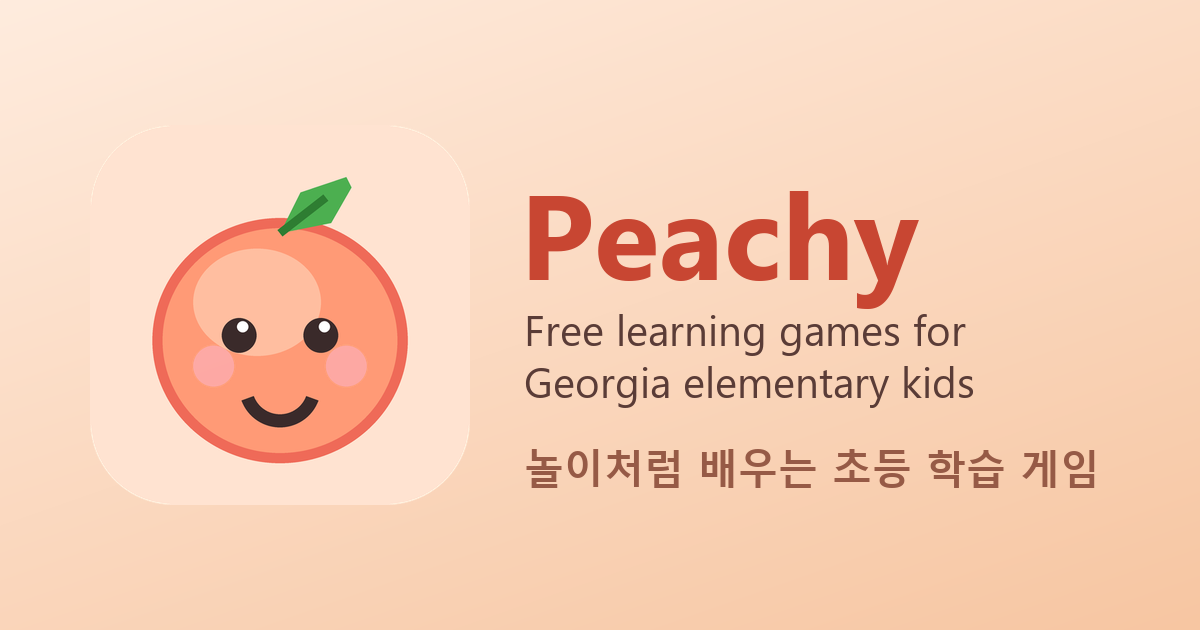
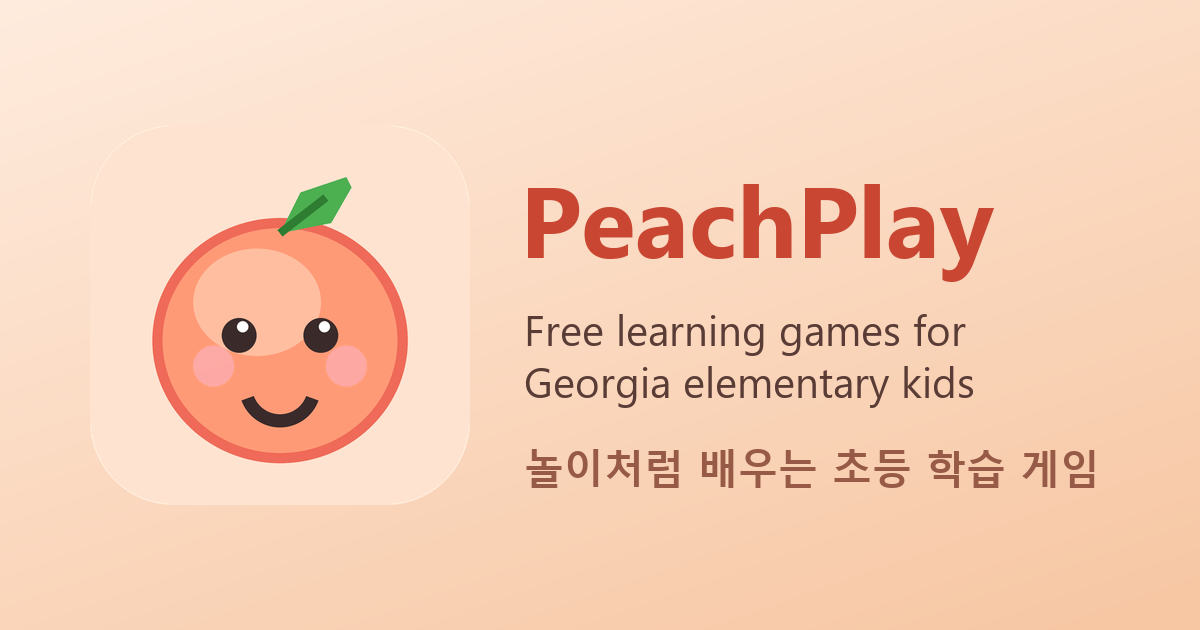
Update site

Changed region(s): [[0.4317, 0.2714, 0.8325, 0.5127]]

diff --git a/index.html b/index.html
@@ -4,11 +4,11 @@
 <meta charset="utf-8">
 <meta name="viewport" content="width=device-width, initial-scale=1">
 <script>/* opened as an installed app: go straight to the games */try{if((window.matchMedia&&matchMedia("(display-mode: standalone)").matches)||navigator.standalone)location.replace("play/")}catch(e){}</script>
-<title>Peachy – Free learning games for Georgia elementary kids</title>
+<title>PeachPlay – Free learning games for Georgia elementary kids</title>
 <meta name="description" content="Free, ad-free learning games for Georgia elementary kids: math, reading, writing, science, social studies and thinking games. Kindergarten and 1st grade now, more grades coming. English and Korean. No sign-up.">
 <meta name="theme-color" content="#ff9a76">
 <meta property="og:type" content="website">
-<meta property="og:title" content="Peachy – Free learning games for Georgia elementary kids">
+<meta property="og:title" content="PeachPlay – Free learning games for Georgia elementary kids">
 <meta property="og:description" content="120+ short games for kindergarten and 1st grade: math, reading, writing, science, social studies. English and Korean. Free, no ads, no sign-up.">
 <meta property="og:image" content="https://altair-research.github.io/peachy-k/og.png">
 <meta property="og:url" content="https://altair-research.github.io/peachy-k/">
@@ -78,7 +78,7 @@ footer{padding:30px 0 50px;text-align:center;color:var(--mute);font-size:14px}
 </head>
 <body>
 <header class="top"><div class="wrap">
-  <a class="brand" href="./"><img src="icon-192.png" alt="">Peachy</a>
+  <a class="brand" href="./"><img src="icon-192.png" alt="">PeachPlay</a>
   <button class="lang" id="lang" aria-label="Language">한국어</button>
 </div></header>
 
@@ -89,7 +89,7 @@ footer{padding:30px 0 50px;text-align:center;color:var(--mute);font-size:14px}
     <circle cx="19" cy="40" r="4.2" fill="#ff7f8a" opacity=".55"/><circle cx="45" cy="40" r="4.2" fill="#ff7f8a" opacity=".55"/><circle cx="24" cy="34" r="3.4" fill="#3a2a2a"/><circle cx="40" cy="34" r="3.4" fill="#3a2a2a"/><circle cx="25.2" cy="32.8" r="1.1" fill="#fff"/><circle cx="41.2" cy="32.8" r="1.1" fill="#fff"/><path d="M24 43q8 9 16 0" stroke="#3a2a2a" stroke-width="2.6" fill="none" stroke-linecap="round"/></svg>
   <div>
     <h1><span class="en">Learning games that feel like play.</span><span class="ko">놀이처럼 배우는 학습 게임</span></h1>
-    <p class="lead"><span class="en">Peachy is a free, ad-free game app for elementary kids: math, reading, writing, science, social studies and thinking games. Kindergarten and 1st grade are ready, and more grades are on the way. English and Korean, built around Georgia and Gwinnett learning standards.</span><span class="ko">Peachy는 초등학생을 위한 무료, 광고 없는 학습 게임이에요. 수학, 읽기, 쓰기, 과학, 사회, 두뇌 게임을 영어와 한국어로 즐길 수 있어요. 유치원(K)과 1학년이 준비되어 있고 더 높은 학년도 준비 중이에요. 조지아·Gwinnett 학습 기준을 바탕으로 만들었어요.</span></p>
+    <p class="lead"><span class="en">PeachPlay is a free, ad-free game app for elementary kids: math, reading, writing, science, social studies and thinking games. Kindergarten and 1st grade are ready, and more grades are on the way. English and Korean, built around Georgia and Gwinnett learning standards.</span><span class="ko">PeachPlay는 초등학생을 위한 무료, 광고 없는 학습 게임이에요. 수학, 읽기, 쓰기, 과학, 사회, 두뇌 게임을 영어와 한국어로 즐길 수 있어요. 유치원(K)과 1학년이 준비되어 있고 더 높은 학년도 준비 중이에요. 조지아·Gwinnett 학습 기준을 바탕으로 만들었어요.</span></p>
     <a class="cta" href="play/">▶ <span class="en">Play now</span><span class="ko">지금 시작하기</span></a>
     <a class="cta2" href="#install"><span class="en">Add it to your home screen</span><span class="ko">홈 화면에 추가하는 방법</span></a>
     <div class="badges"><span><span class="en">Free</span><span class="ko">무료</span></span><span><span class="en">No ads</span><span class="ko">광고 없음</span></span><span><span class="en">No sign-up</span><span class="ko">가입 없음</span></span><span><span class="en">Works offline</span><span class="ko">오프라인 가능</span></span><span>English · 한국어</span></div>
@@ -146,18 +146,18 @@ footer{padding:30px 0 50px;text-align:center;color:var(--mute);font-size:14px}
 </div></section>
 
 <section><div class="wrap">
-  <div style="text-align:center"><a class="cta" href="play/">▶ <span class="en">Play Peachy</span><span class="ko">Peachy 시작하기</span></a></div>
-  <p class="note" style="margin-top:28px"><span class="en">Peachy is made independently by Altair Research Lab. It is not affiliated with, endorsed by, or sponsored by Gwinnett County Public Schools, the Georgia Department of Education, or any publisher. It follows publicly available learning standards, and every question is original. Peachy is for practice and fun. It is not a test, a diagnosis, or an admissions tool.</span><span class="ko">Peachy는 Altair Research Lab이 독립적으로 만들었으며 Gwinnett County Public Schools, 조지아 교육부 또는 어떤 출판사와도 관련이 없고 후원이나 승인을 받지 않았어요. 공개된 학습 기준을 참고했고 모든 문제는 직접 만든 문제예요. 연습과 놀이를 위한 앱이며 시험, 진단, 입학 선발 도구가 아니에요.</span></p>
+  <div style="text-align:center"><a class="cta" href="play/">▶ <span class="en">Play PeachPlay</span><span class="ko">PeachPlay 시작하기</span></a></div>
+  <p class="note" style="margin-top:28px"><span class="en">PeachPlay is made independently by Altair Research Lab. It is not affiliated with, endorsed by, or sponsored by Gwinnett County Public Schools, the Georgia Department of Education, or any publisher. It follows publicly available learning standards, and every question is original. PeachPlay is for practice and fun. It is not a test, a diagnosis, or an admissions tool.</span><span class="ko">PeachPlay는 Altair Research Lab이 독립적으로 만들었으며 Gwinnett County Public Schools, 조지아 교육부 또는 어떤 출판사와도 관련이 없고 후원이나 승인을 받지 않았어요. 공개된 학습 기준을 참고했고 모든 문제는 직접 만든 문제예요. 연습과 놀이를 위한 앱이며 시험, 진단, 입학 선발 도구가 아니에요.</span></p>
 </div></section>
 </main>
 
-<footer><div class="wrap">© 2026 Altair Research Lab · Peachy · <a href="privacy.html"><span class="en">Privacy</span><span class="ko">개인정보</span></a> · <a href="terms.html"><span class="en">Terms</span><span class="ko">약관</span></a></div></footer>
+<footer><div class="wrap">© 2026 Altair Research Lab · PeachPlay · <a href="privacy.html"><span class="en">Privacy</span><span class="ko">개인정보</span></a> · <a href="terms.html"><span class="en">Terms</span><span class="ko">약관</span></a></div></footer>
 
 <script>
 (function(){
   var KEY='peachy-landing-lang',root=document.documentElement,btn=document.getElementById('lang'),lang='en';
   try{var s=localStorage.getItem(KEY);if(s)lang=s;else if((navigator.language||'').toLowerCase().indexOf('ko')===0)lang='ko'}catch(e){}
-  function apply(){root.lang=lang;btn.textContent=lang==='en'?'한국어':'English';document.title=lang==='en'?'Peachy – Free learning games for Georgia elementary kids':'Peachy – 조지아 초등학생을 위한 무료 학습 게임'}
+  function apply(){root.lang=lang;btn.textContent=lang==='en'?'한국어':'English';document.title=lang==='en'?'PeachPlay – Free learning games for Georgia elementary kids':'PeachPlay – 조지아 초등학생을 위한 무료 학습 게임'}
   btn.onclick=function(){lang=lang==='en'?'ko':'en';try{localStorage.setItem(KEY,lang)}catch(e){}apply()};
   apply();
   var url=document.getElementById('shareUrl'),msg=document.getElementById('copied');
@@ -170,7 +170,7 @@ footer{padding:30px 0 50px;text-align:center;color:var(--mute);font-size:14px}
   };
   url.onfocus=function(){url.select()};
   var sb=document.getElementById('shareBtn');
-  if(navigator.share){sb.hidden=false;sb.onclick=function(){navigator.share({title:'Peachy',text:lang==='en'?'Free learning games for elementary kids':'초등학생을 위한 무료 학습 게임',url:url.value}).catch(function(){})}}
+  if(navigator.share){sb.hidden=false;sb.onclick=function(){navigator.share({title:'PeachPlay',text:lang==='en'?'Free learning games for elementary kids':'초등학생을 위한 무료 학습 게임',url:url.value}).catch(function(){})}}
 })();
 </script>
 </body>

diff --git a/terms.html b/terms.html
@@ -3,8 +3,8 @@
 <head>
 <meta charset="utf-8">
 <meta name="viewport" content="width=device-width, initial-scale=1">
-<title>Terms of Use – Peachy</title>
-<meta name="description" content="Peachy terms of use: free educational games, provided as is, independent from any school district.">
+<title>Terms of Use – PeachPlay</title>
+<meta name="description" content="PeachPlay terms of use: free educational games, provided as is, independent from any school district.">
 <meta name="theme-color" content="#ff9a76">
 <link rel="icon" href="icon.svg" type="image/svg+xml">
 <link rel="apple-touch-icon" href="apple-touch-icon.png">
@@ -34,7 +34,7 @@ footer{padding:24px 0 50px;text-align:center;color:var(--mute);font-size:14px}
 </head>
 <body>
 <header class="top"><div class="wrap">
-  <a class="brand" href="./"><img src="icon-192.png" alt="">Peachy</a>
+  <a class="brand" href="./"><img src="icon-192.png" alt="">PeachPlay</a>
   <button class="lang" id="lang" aria-label="Language">한국어</button>
 </div></header>
 
@@ -42,11 +42,11 @@ footer{padding:24px 0 50px;text-align:center;color:var(--mute);font-size:14px}
 
 <div class="en">
 <h1>Terms of Use</h1>
-<p class="meta">Effective October 11, 2026 · Peachy, operated by Altair Research Lab</p>
+<p class="meta">Effective October 11, 2026 · PeachPlay, operated by Altair Research Lab</p>
 <p class="warn">Plain-language terms written by the app maker. They are not legal advice and have not been reviewed by a lawyer.</p>
 
-<h2>Using Peachy</h2>
-<p>Peachy is a free set of learning games for young children, meant to be used with a parent or guardian nearby. By using it you agree to these terms. If you do not agree, please do not use it.</p>
+<h2>Using PeachPlay</h2>
+<p>PeachPlay is a free set of learning games for young children, meant to be used with a parent or guardian nearby. By using it you agree to these terms. If you do not agree, please do not use it.</p>
 
 <h2>Practice, not a test</h2>
 <ul>
@@ -55,7 +55,7 @@ footer{padding:24px 0 50px;text-align:center;color:var(--mute);font-size:14px}
 </ul>
 
 <h2>Independent from schools</h2>
-<p>Peachy is made independently by Altair Research Lab. It is not affiliated with, endorsed by, or sponsored by Gwinnett County Public Schools, the Georgia Department of Education, or any publisher. Standards are referred to only to describe what the games practice. Names and marks belong to their owners.</p>
+<p>PeachPlay is made independently by Altair Research Lab. It is not affiliated with, endorsed by, or sponsored by Gwinnett County Public Schools, the Georgia Department of Education, or any publisher. Standards are referred to only to describe what the games practice. Names and marks belong to their owners.</p>
 
 <h2>Your data and backups</h2>
 <p>Progress is stored only on your device (see the <a href="privacy.html">Privacy Policy</a>). You are responsible for your device and for saving backups if you want to keep progress. Clearing browser data, a device change or a browser problem can erase it, and we cannot recover it.</p>
@@ -72,11 +72,11 @@ footer{padding:24px 0 50px;text-align:center;color:var(--mute);font-size:14px}
 
 <div class="ko">
 <h1>이용 약관</h1>
-<p class="meta">시행일 2026년 10월 11일 · Peachy (운영: Altair Research Lab)</p>
+<p class="meta">시행일 2026년 10월 11일 · PeachPlay (운영: Altair Research Lab)</p>
 <p class="warn">앱 제작자가 쉽게 풀어 쓴 약관이에요. 법률 자문이 아니며 변호사의 검토를 받지 않았어요.</p>
 
-<h2>Peachy 사용</h2>
-<p>Peachy는 어린아이를 위한 무료 학습 게임이며, 보호자가 곁에 있는 상태에서 쓰도록 만들었어요. 사용하면 이 약관에 동의한 것으로 봅니다. 동의하지 않으면 사용하지 말아 주세요.</p>
+<h2>PeachPlay 사용</h2>
+<p>PeachPlay는 어린아이를 위한 무료 학습 게임이며, 보호자가 곁에 있는 상태에서 쓰도록 만들었어요. 사용하면 이 약관에 동의한 것으로 봅니다. 동의하지 않으면 사용하지 말아 주세요.</p>
 
 <h2>연습이지 시험이 아니에요</h2>
 <ul>
@@ -85,7 +85,7 @@ footer{padding:24px 0 50px;text-align:center;color:var(--mute);font-size:14px}
 </ul>
 
 <h2>학교와는 별개예요</h2>
-<p>Peachy는 Altair Research Lab이 독립적으로 만들었어요. Gwinnett County Public Schools, Georgia Department of Education, 어떤 출판사와도 제휴·승인·후원 관계가 없어요. 교육 기준은 게임이 무엇을 연습하는지 설명할 때만 언급해요. 이름과 상표는 각 소유자의 것이에요.</p>
+<p>PeachPlay는 Altair Research Lab이 독립적으로 만들었어요. Gwinnett County Public Schools, Georgia Department of Education, 어떤 출판사와도 제휴·승인·후원 관계가 없어요. 교육 기준은 게임이 무엇을 연습하는지 설명할 때만 언급해요. 이름과 상표는 각 소유자의 것이에요.</p>
 
 <h2>데이터와 백업</h2>
 <p>기록은 기기에만 저장돼요(<a href="privacy.html">개인정보 처리방침</a> 참고). 기기 관리와, 기록을 보관하려면 백업을 저장하는 일은 이용자의 몫이에요. 브라우저 데이터 삭제, 기기 교체, 브라우저 문제로 기록이 지워질 수 있고 저희가 복구할 수 없어요.</p>
@@ -103,13 +103,13 @@ footer{padding:24px 0 50px;text-align:center;color:var(--mute);font-size:14px}
 <p><a href="privacy.html"><span class="en">Privacy Policy</span><span class="ko">개인정보 처리방침</span></a> · <a href="./"><span class="en">Home</span><span class="ko">처음으로</span></a></p>
 </div></main>
 
-<footer><div class="wrap">© 2026 Altair Research Lab · Peachy</div></footer>
+<footer><div class="wrap">© 2026 Altair Research Lab · PeachPlay</div></footer>
 
 <script>
 (function(){
   var KEY='peachy-landing-lang',root=document.documentElement,btn=document.getElementById('lang'),lang='en';
   try{var s=localStorage.getItem(KEY);if(s)lang=s;else if((navigator.language||'').toLowerCase().indexOf('ko')===0)lang='ko'}catch(e){}
-  function apply(){root.lang=lang;btn.textContent=lang==='en'?'한국어':'English';document.title=lang==='en'?'Terms of Use – Peachy':'이용 약관 – Peachy'}
+  function apply(){root.lang=lang;btn.textContent=lang==='en'?'한국어':'English';document.title=lang==='en'?'Terms of Use – PeachPlay':'이용 약관 – PeachPlay'}
   btn.onclick=function(){lang=lang==='en'?'ko':'en';try{localStorage.setItem(KEY,lang)}catch(e){}apply()};
   apply();
 })();

diff --git a/privacy.html b/privacy.html
@@ -3,8 +3,8 @@
 <head>
 <meta charset="utf-8">
 <meta name="viewport" content="width=device-width, initial-scale=1">
-<title>Privacy Policy – Peachy</title>
-<meta name="description" content="Peachy privacy policy: progress stays on your device, no accounts, no ads, no tracking.">
+<title>Privacy Policy – PeachPlay</title>
+<meta name="description" content="PeachPlay privacy policy: progress stays on your device, no accounts, no ads, no tracking.">
 <meta name="theme-color" content="#ff9a76">
 <link rel="icon" href="icon.svg" type="image/svg+xml">
 <link rel="apple-touch-icon" href="apple-touch-icon.png">
@@ -34,7 +34,7 @@ footer{padding:24px 0 50px;text-align:center;color:var(--mute);font-size:14px}
 </head>
 <body>
 <header class="top"><div class="wrap">
-  <a class="brand" href="./"><img src="icon-192.png" alt="">Peachy</a>
+  <a class="brand" href="./"><img src="icon-192.png" alt="">PeachPlay</a>
   <button class="lang" id="lang" aria-label="Language">한국어</button>
 </div></header>
 
@@ -42,10 +42,10 @@ footer{padding:24px 0 50px;text-align:center;color:var(--mute);font-size:14px}
 
 <div class="en">
 <h1>Privacy Policy</h1>
-<p class="meta">Effective October 11, 2026 · Peachy, operated by Altair Research Lab</p>
+<p class="meta">Effective October 11, 2026 · PeachPlay, operated by Altair Research Lab</p>
 <p class="warn">Plain-language summary written by the app maker. It is not legal advice and has not been reviewed by a lawyer.</p>
 
-<div class="box"><b>In short:</b> Peachy has no accounts, no ads and no tracking. Your child's progress is saved only in this device's browser. We do not receive it.</div>
+<div class="box"><b>In short:</b> PeachPlay has no accounts, no ads and no tracking. Your child's progress is saved only in this device's browser. We do not receive it.</div>
 
 <h2>What stays on your device</h2>
 <ul>
@@ -76,7 +76,7 @@ footer{padding:24px 0 50px;text-align:center;color:var(--mute);font-size:14px}
 </ul>
 
 <h2>Children</h2>
-<p>Peachy is meant to be used by children with a parent or guardian nearby. Grown-up features are in the "For grown-ups" screen. We do not knowingly collect personal information from children. If you believe we received a child's information, write to us and we will delete it.</p>
+<p>PeachPlay is meant to be used by children with a parent or guardian nearby. Grown-up features are in the "For grown-ups" screen. We do not knowingly collect personal information from children. If you believe we received a child's information, write to us and we will delete it.</p>
 
 <h2>Your choices</h2>
 <p>You can delete everything at any time from the app or by clearing site data in your browser. Since we hold no copy, there is nothing for us to delete on our side except e-mails you sent us, which we delete on request.</p>
@@ -87,10 +87,10 @@ footer{padding:24px 0 50px;text-align:center;color:var(--mute);font-size:14px}
 
 <div class="ko">
 <h1>개인정보 처리방침</h1>
-<p class="meta">시행일 2026년 10월 11일 · Peachy (운영: Altair Research Lab)</p>
+<p class="meta">시행일 2026년 10월 11일 · PeachPlay (운영: Altair Research Lab)</p>
 <p class="warn">앱 제작자가 쉽게 풀어 쓴 안내문이에요. 법률 자문이 아니며 변호사의 검토를 받지 않았어요.</p>
 
-<div class="box"><b>한마디로:</b> Peachy에는 계정, 광고, 추적이 없어요. 아이의 기록은 이 기기의 브라우저에만 저장되고, 저희는 받지 않아요.</div>
+<div class="box"><b>한마디로:</b> PeachPlay에는 계정, 광고, 추적이 없어요. 아이의 기록은 이 기기의 브라우저에만 저장되고, 저희는 받지 않아요.</div>
 
 <h2>기기 안에만 저장되는 것</h2>
 <ul>
@@ -121,7 +121,7 @@ footer{padding:24px 0 50px;text-align:center;color:var(--mute);font-size:14px}
 </ul>
 
 <h2>아이들</h2>
-<p>Peachy는 보호자가 곁에 있는 상태에서 쓰도록 만들었어요. 보호자용 기능은 '보호자용' 화면에 있어요. 아이의 개인정보를 알면서 수집하지 않아요. 아이 정보가 저희에게 전달됐다고 생각되면 알려 주세요. 삭제할게요.</p>
+<p>PeachPlay는 보호자가 곁에 있는 상태에서 쓰도록 만들었어요. 보호자용 기능은 '보호자용' 화면에 있어요. 아이의 개인정보를 알면서 수집하지 않아요. 아이 정보가 저희에게 전달됐다고 생각되면 알려 주세요. 삭제할게요.</p>
 
 <h2>선택권</h2>
 <p>앱에서 또는 브라우저 사이트 데이터를 지워서 언제든 모두 삭제할 수 있어요. 저희에게는 사본이 없으므로, 보내 주신 이메일 외에 저희 쪽에서 지울 것은 없고 이메일도 요청하시면 삭제해요.</p>
@@ -133,13 +133,13 @@ footer{padding:24px 0 50px;text-align:center;color:var(--mute);font-size:14px}
 <p><a href="terms.html"><span class="en">Terms of Use</span><span class="ko">이용 약관</span></a> · <a href="./"><span class="en">Home</span><span class="ko">처음으로</span></a></p>
 </div></main>
 
-<footer><div class="wrap">© 2026 Altair Research Lab · Peachy</div></footer>
+<footer><div class="wrap">© 2026 Altair Research Lab · PeachPlay</div></footer>
 
 <script>
 (function(){
   var KEY='peachy-landing-lang',root=document.documentElement,btn=document.getElementById('lang'),lang='en';
   try{var s=localStorage.getItem(KEY);if(s)lang=s;else if((navigator.language||'').toLowerCase().indexOf('ko')===0)lang='ko'}catch(e){}
-  function apply(){root.lang=lang;btn.textContent=lang==='en'?'한국어':'English';document.title=lang==='en'?'Privacy Policy – Peachy':'개인정보 처리방침 – Peachy'}
+  function apply(){root.lang=lang;btn.textContent=lang==='en'?'한국어':'English';document.title=lang==='en'?'Privacy Policy – PeachPlay':'개인정보 처리방침 – PeachPlay'}
   btn.onclick=function(){lang=lang==='en'?'ko':'en';try{localStorage.setItem(KEY,lang)}catch(e){}apply()};
   apply();
 })();

diff --git a/play/backup.js b/play/backup.js
@@ -8,7 +8,7 @@ const BK = {
   save: B('Save backup file', '백업 파일 저장'), copy: B('Copy backup code', '백업 코드 복사'), copied: B('Copied!', '복사됐어요!'),
   load: B('Restore from file', '파일에서 복원'), paste: B('Restore from code', '코드로 복원'), pasteHint: B('Paste backup code here', '백업 코드를 여기에 붙여넣기'),
   ask: B('Replace ALL progress on this device with the backup? This cannot be undone.', '이 기기의 모든 기록을 백업 내용으로 바꿀까요? 되돌릴 수 없어요.'),
-  ok: B('Restored! Reloading…', '복원했어요! 다시 불러옵니다…'), bad: B('That does not look like a Peachy backup.', 'Peachy 백업이 아니에요.'), full: B('Could not save on this device (storage full or blocked).', '이 기기에 저장하지 못했어요(저장 공간 부족 또는 차단).'),
+  ok: B('Restored! Reloading…', '복원했어요! 다시 불러옵니다…'), bad: B('That does not look like a PeachPlay backup.', 'PeachPlay 백업이 아니에요.'), full: B('Could not save on this device (storage full or blocked).', '이 기기에 저장하지 못했어요(저장 공간 부족 또는 차단).'),
   fbTitle: B('Send feedback', '의견 보내기'), fbNote: B('Opens your e-mail app with a draft to the app maker. Nothing is sent until you press Send in your mail app. No tracking.', '이메일 앱에 초안이 열려요. 메일 앱에서 보내기를 누르기 전에는 아무것도 전송되지 않고, 추적도 없어요.'),
   fbKind: B('Type', '종류'), kinds: [B('Bug / something broke', '오류 / 고장'), B('Idea / request', '아이디어 / 요청'), B('Question', '질문'), B('Other', '기타')],
   fbMsg: B('What happened? What would you like?', '무슨 일이 있었나요? 바라는 점은요?'),
@@ -40,7 +40,7 @@ function backupApply(o, say2) {
   } catch (e) { console.warn('[peachy] restore failed', e); say2(L(BK.full)); }
 }
 function feedbackBody(msg, dev, prog) {
-  const lines = [msg.trim(), '', '---', `Peachy v${APP_VERSION} (${APP_BUILD})`];
+  const lines = [msg.trim(), '', '---', `PeachPlay v${APP_VERSION} (${APP_BUILD})`];
   if (dev) lines.push(`Browser: ${navigator.userAgent}`, `Screen: ${screen.width}x${screen.height} @${window.devicePixelRatio || 1}, window ${innerWidth}x${innerHeight}`, `Language: ${navigator.language} / app ${S.lang}`, `Installed app: ${(matchMedia('(display-mode: standalone)').matches || navigator.standalone) ? 'yes' : 'no'}`);
   if (prog) { let r = 0, w = 0, g = 0; Object.values(S.stats || {}).forEach(s => { r += s.right; w += s.wrong; if (s.right + s.wrong) g++; }); lines.push(`Progress (current child): ${g} games tried, ${r} right, ${w} missed`); }
   return lines.join('\n');
@@ -75,6 +75,6 @@ function backupBind() {
   $('#bkFile').onchange = (e) => { const f = e.target.files[0]; if (!f) return; if (f.size > 5e6) return msg(L(BK.bad)); const r = new FileReader(); r.onload = () => restore(r.result); r.onerror = () => msg(L(BK.bad)); r.readAsText(f); e.target.value = ''; };
   $('#bkPaste').onclick = () => restore($('#bkText').value);
   const draft = () => `${L(BK.kinds[+$('#fbKind').value])}\n\n${feedbackBody($('#fbMsg').value, $('#fbDev').checked, $('#fbProg').checked)}`;
-  $('#fbSend').onclick = () => { location.href = `mailto:${FEEDBACK_EMAIL}?subject=${encodeURIComponent('Peachy feedback v' + APP_VERSION)}&body=${encodeURIComponent(draft())}`; };
+  $('#fbSend').onclick = () => { location.href = `mailto:${FEEDBACK_EMAIL}?subject=${encodeURIComponent('PeachPlay feedback v' + APP_VERSION)}&body=${encodeURIComponent(draft())}`; };
   $('#fbCopy').onclick = () => copyText(draft(), ok => msg(ok ? L(BK.copied) : ''));
 }

diff --git a/play/faq.js b/play/faq.js
@@ -1,7 +1,7 @@
 'use strict';
 // Help & Q&A screen (bilingual). Keep answers short and honest; update when features change.
 const FAQ = [
-  [B('What is Peachy?', 'Peachy는 무엇인가요?'), B('Free, ad-free learning games for Georgia elementary kids (kindergarten and 1st grade so far, more grades are being added). The topics follow the Georgia / Gwinnett kindergarten standards (AKS). It is made independently and is not affiliated with Gwinnett County Public Schools or any textbook publisher.', '조지아 유치원(K) 아이를 위한 무료, 광고 없는 학습 게임이에요. 조지아/Gwinnett K 표준(AKS) 주제를 따라요. 독립적으로 만들었고 Gwinnett County Public Schools나 교재 출판사와 관련이 없어요.'), 'start'],
+  [B('What is PeachPlay?', 'PeachPlay는 무엇인가요?'), B('Free, ad-free learning games for Georgia elementary kids (kindergarten and 1st grade so far, more grades are being added). The topics follow the Georgia / Gwinnett kindergarten standards (AKS). It is made independently and is not affiliated with Gwinnett County Public Schools or any textbook publisher.', '조지아 유치원(K) 아이를 위한 무료, 광고 없는 학습 게임이에요. 조지아/Gwinnett K 표준(AKS) 주제를 따라요. 독립적으로 만들었고 Gwinnett County Public Schools나 교재 출판사와 관련이 없어요.'), 'start'],
   [B('What does "Surprise me!" do?', '"Surprise me!"는 무엇을 하나요?'), B('It plays a mix of different games, 3 questions each, one after another. If there are Peachy\'s picks, they show up more often. It keeps going until you press the Home button. It does not give stickers (stickers come from finishing one full round of a game).', '여러 게임을 섞어서 게임마다 3문제씩 차례로 풀게 해요. 피치의 추천 게임이 있으면 더 자주 나와요. 홈 버튼을 누를 때까지 계속돼요. 스티커는 주지 않아요(스티커는 한 게임을 한 판 끝까지 했을 때 받아요).'), 'play'],
   [B('What are peaches and baskets?', '복숭아와 바구니는 무엇인가요?'), B('You win a 🍑 peach each time you answer right on the first try. 10 peaches fill a 🧺 basket. They are shown at the top of the screen.', '처음 시도에 맞힐 때마다 🍑 복숭아를 받아요. 복숭아 10개가 모이면 🧺 바구니 1개가 돼요. 화면 맨 위에 보여요.'), 'play'],
   [B('How do I get stickers?', '스티커는 어떻게 받나요?'), B('Finish one full round (10 questions) of a game and you win a new sticker. There are 40 stickers. Tap the 🏆 at the top to see your sticker book.', '한 게임을 한 판(10문제) 끝까지 하면 새 스티커를 받아요. 스티커는 40종이에요. 맨 위의 🏆를 누르면 스티커북을 볼 수 있어요.'), 'play'],

diff --git a/play/sw.js b/play/sw.js
@@ -1,6 +1,6 @@
 // Offline cache so the games work on school Chromebooks without Wi-Fi after the first visit.
-const CACHE = 'peachy-v36';
-const FILES = ['./', 'index.html', 'icon-192.png', 'icon-512.png', 'apple-touch-icon.png', 'style.css', 'version.js', 'ui.css', 'blockpuzzle.css', 'beta.css', 'grade1.css', 'games1-math.js', 'games1-math2.js', 'games1-read.js', 'games1-sci.js', 'games1-ss.js', 'backup.js', 'pwa.js', 'i18n.js', 'core.js', 'games-math.js', 'games-read.js', 'games-write.js', 'games-read2.js', 'games-math2.js', 'games-sci2.js', 'games-brain.js', 'games-more.js', 'games-blocks.js', 'games-blockpuzzle.js', 'games-think.js', 'games-gifted.js', 'games-ga.js', 'games-sci.js', 'report-parse.js', 'profile.js', 'faq.js', 'profiles.js', 'app.js', 'icon.svg', 'manifest.webmanifest', 'vendor/pdfjs/pdf.min.js', 'vendor/pdfjs/pdf.worker.min.js'];
+const CACHE = 'peachplay-v39';
+const FILES = ['./', 'index.html', 'icon-192.png', 'icon-512.png', 'apple-touch-icon.png', 'style.css', 'version.js', 'ui.css', 'blockpuzzle.css', 'beta.css', 'a11y.css', 'grade1.css', 'games1-math.js', 'games1-math2.js', 'games1-read.js', 'games1-sci.js', 'games1-ss.js', 'backup.js', 'pwa.js', 'i18n.js', 'core.js', 'games-math.js', 'games-read.js', 'games-write.js', 'games-read2.js', 'games-math2.js', 'games-sci2.js', 'games-brain.js', 'games-more.js', 'games-blocks.js', 'games-blockpuzzle.js', 'games-think.js', 'games-gifted.js', 'games-ga.js', 'games-sci.js', 'report-parse.js', 'profile.js', 'faq.js', 'profiles.js', 'app.js', 'icon.svg', 'manifest.webmanifest', 'vendor/pdfjs/pdf.min.js', 'vendor/pdfjs/pdf.worker.min.js'];
 self.addEventListener('install', e => e.waitUntil(caches.open(CACHE).then(c => c.addAll(FILES)).then(() => self.skipWaiting())));
 self.addEventListener('activate', e => e.waitUntil(caches.keys().then(k => Promise.all(k.filter(x => x !== CACHE).map(x => caches.delete(x)))).then(() => self.clients.claim())));
 self.addEventListener('fetch', e => e.respondWith(fetch(e.request, { cache: 'no-cache' }).then(r => { const c = r.clone(); caches.open(CACHE).then(ch => ch.put(e.request, c)); return r; }).catch(() => caches.match(e.request))));

diff --git a/play/profiles.js b/play/profiles.js
@@ -13,7 +13,7 @@ const PT = {
   colSubj: B('Subject', '과목'), colNow: B('Last 7', '최근 7일'), colPrev: B('Before', '그 전'), colTrend: B('Trend', '변화'),
   none: B('No answers yet. Play a game and the chart will fill in.', '아직 기록이 없어요. 게임을 하면 그래프가 채워져요.'),
   note: B('These numbers only count answers in this app on this device. They are a practice record, not a test score. A subject needs 5+ answers in a week to show a trend.', '이 앱에서 이 기기로 푼 문제만 센 연습 기록이에요. 시험 점수가 아니에요. 한 과목에서 일주일에 5문제 이상 풀어야 변화가 보여요.'),
-  shareT: B('Share Peachy', 'Peachy 공유하기'), shareN: B('Copy the link and send it to other parents or teachers.', '링크를 복사해서 다른 부모님이나 선생님께 보내 주세요.'), copy: B('Copy link', '링크 복사'), copied: B('Link copied!', '링크가 복사됐어요!'),
+  shareT: B('Share PeachPlay', 'PeachPlay 공유하기'), shareN: B('Copy the link and send it to other parents or teachers.', '링크를 복사해서 다른 부모님이나 선생님께 보내 주세요.'), copy: B('Copy link', '링크 복사'), copied: B('Link copied!', '링크가 복사됐어요!'),
   back: B('Back', '뒤로'), who: B('Playing now', '지금 하는 아이'),
   cheer0: B('Play a game to start your streak!', '게임을 하면 연속 기록이 시작돼요!'), cheerN: (n) => B(`${n} days in a row. Great job!`, `${n}일 연속! 잘했어요!`)
 };

diff --git a/play/a11y.css b/play/a11y.css
@@ -1,0 +1,14 @@
+/* Accessibility polish (UI audit 2026-10-11). Loaded last; CSS-only, layout-neutral. */
+/* >=44px touch targets without changing layout: invisible hit-area extension */
+header .icon,#muteBtn,.chip,#langBtn,.chk,.link,.say,.skip{position:relative}
+header .icon::after,#muteBtn::after,.chip::after,#langBtn::after,.chk::after,.link::after,.say::after,.skip::after{content:'';position:absolute;left:50%;top:50%;width:max(100%,44px);height:max(100%,44px);transform:translate(-50%,-50%)}
+/* visible keyboard focus (Chromebook users) */
+button:focus-visible,input:focus-visible,textarea:focus-visible,summary:focus-visible{outline:4px solid #1d4ed8;outline-offset:3px}
+/* contrast: white-on-peach was 2.1:1, orange/teal headings 2.1/3.0:1 */
+.next{background:#c94a1f}
+.subj.math h2{color:#c2570a}.subj.sci h2{color:#1f7a6f}
+.note{color:#6b5a5a}
+/* reduced motion: stop shakes/bounces/transitions everywhere */
+@media (prefers-reduced-motion:reduce){
+  *,*::before,*::after{animation-duration:.01ms!important;animation-iteration-count:1!important;transition-duration:.01ms!important;scroll-behavior:auto!important}
+}

diff --git a/play/i18n.js b/play/i18n.js
@@ -4,7 +4,7 @@
 const I18N = {
   en: {
     speech: 'en-US', switchTo: '한국어',
-    app: 'Peachy', tagline: 'Georgia Learning Games',
+    app: 'PeachPlay', tagline: 'Georgia Learning Games',
     pick: 'Pick a game!',
     subjects: { math: 'Math', read: 'Reading', write: 'Writing', life: 'Me & My Day', create: 'Create & Imagine', gifted: 'Challenge Zone', brain: 'Brain Games', ss: 'Georgia & Our Nation', sci: 'Science' },
     right: ['Great job!', 'Awesome!', 'You did it!', 'Super!', 'Peachy!'],
@@ -43,7 +43,7 @@ const I18N = {
   },
   ko: {
     speech: 'ko-KR', switchTo: 'English',
-    app: '피치', tagline: '조지아 학습 게임',
+    app: '피치플레이', tagline: '조지아 학습 게임',
     pick: '게임을 골라요!',
     subjects: { math: '수학', read: '읽기', write: '쓰기', life: '나와 하루', create: '상상하고 만들기', gifted: '도전 문제', brain: '두뇌 게임', ss: '조지아와 우리나라', sci: '과학' },
     right: ['잘했어요!', '멋져요!', '해냈어요!', '최고예요!', '피치 좋아요!'],

diff --git a/play/index.html b/play/index.html
@@ -5,11 +5,11 @@
 <meta name="viewport" content="width=device-width, initial-scale=1, viewport-fit=cover">
 <meta name="mobile-web-app-capable" content="yes">
 <meta name="apple-mobile-web-app-capable" content="yes">
-<meta name="apple-mobile-web-app-title" content="Peachy">
+<meta name="apple-mobile-web-app-title" content="PeachPlay">
 <meta name="apple-mobile-web-app-status-bar-style" content="default">
 <link rel="apple-touch-icon" href="apple-touch-icon.png">
 <meta name="theme-color" content="#ff9a76">
-<title>Peachy</title>
+<title>PeachPlay</title>
 <link rel="manifest" href="manifest.webmanifest">
 <link rel="icon" href="icon.svg" type="image/svg+xml">
 <link rel="stylesheet" href="style.css">
@@ -17,6 +17,7 @@
 <link rel="stylesheet" href="blockpuzzle.css">
 <link rel="stylesheet" href="grade1.css">
 <link rel="stylesheet" href="beta.css">
+<link rel="stylesheet" href="a11y.css">
 </head>
 <body>
 <header>

diff --git a/play/version.js b/play/version.js
@@ -1,3 +1,3 @@
 // Single place for the app version. Bump it with every publish so it is easy to see whether a device has the newest build.
-const APP_VERSION = '3.0', APP_BUILD = '2026-10-11';
-const verText = () => `Peachy v${APP_VERSION} · ${APP_BUILD}`;
+const APP_VERSION = '3.1', APP_BUILD = '2026-10-11';
+const verText = () => `PeachPlay v${APP_VERSION} · ${APP_BUILD}`;
